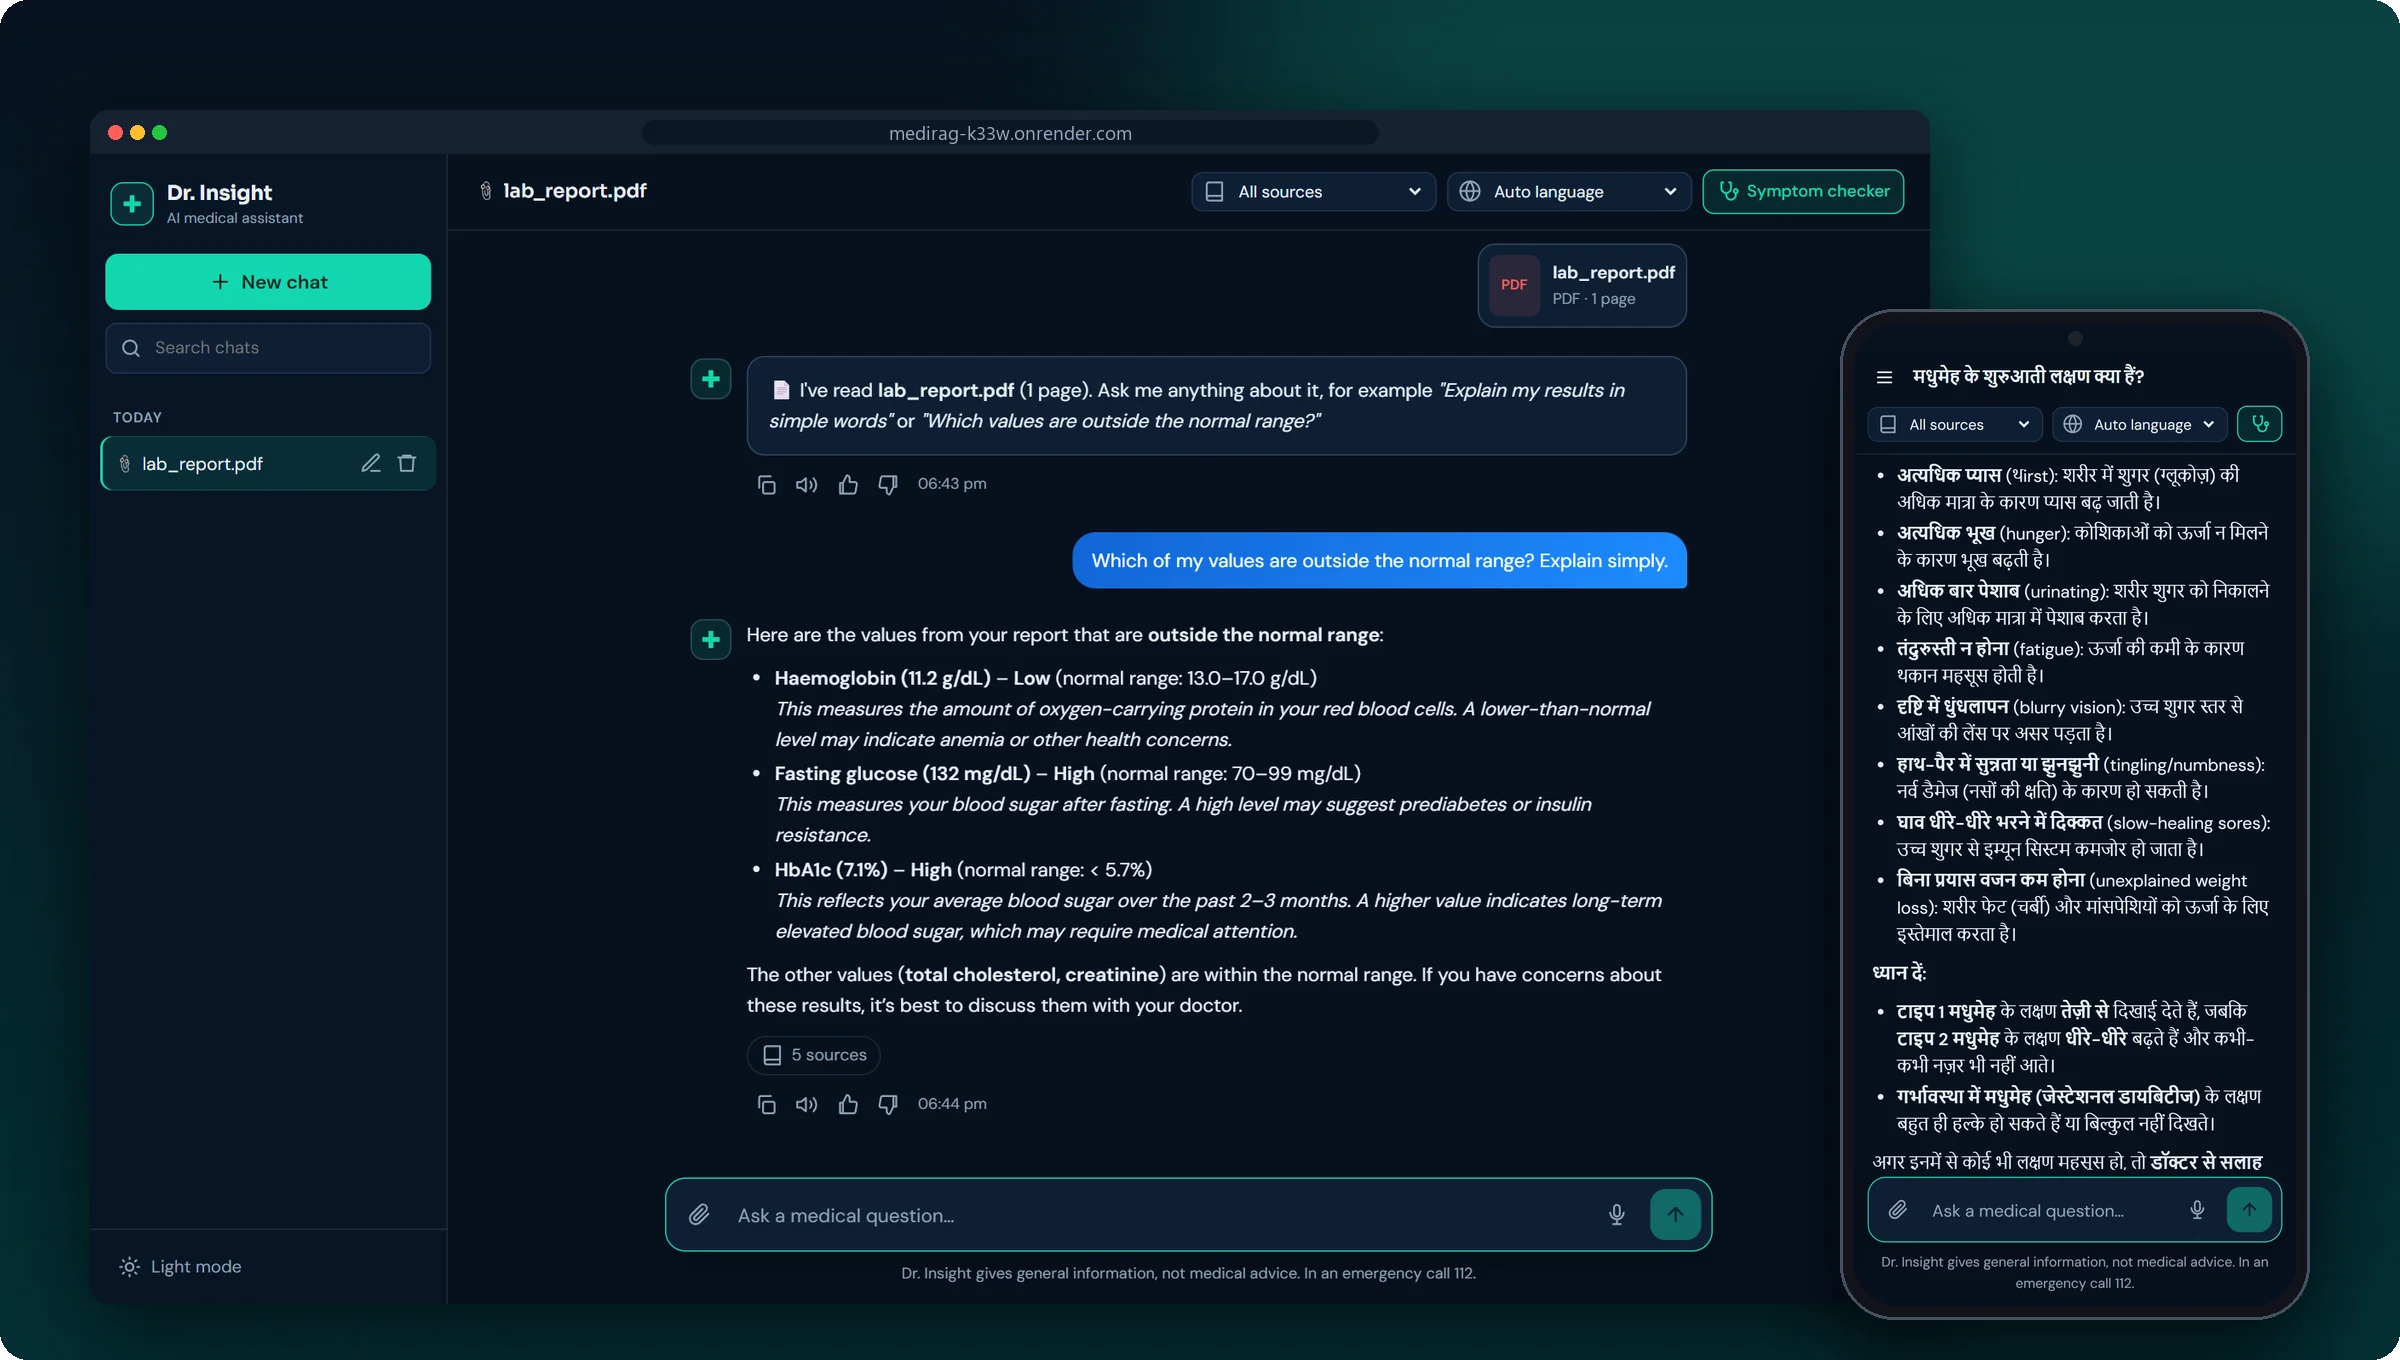
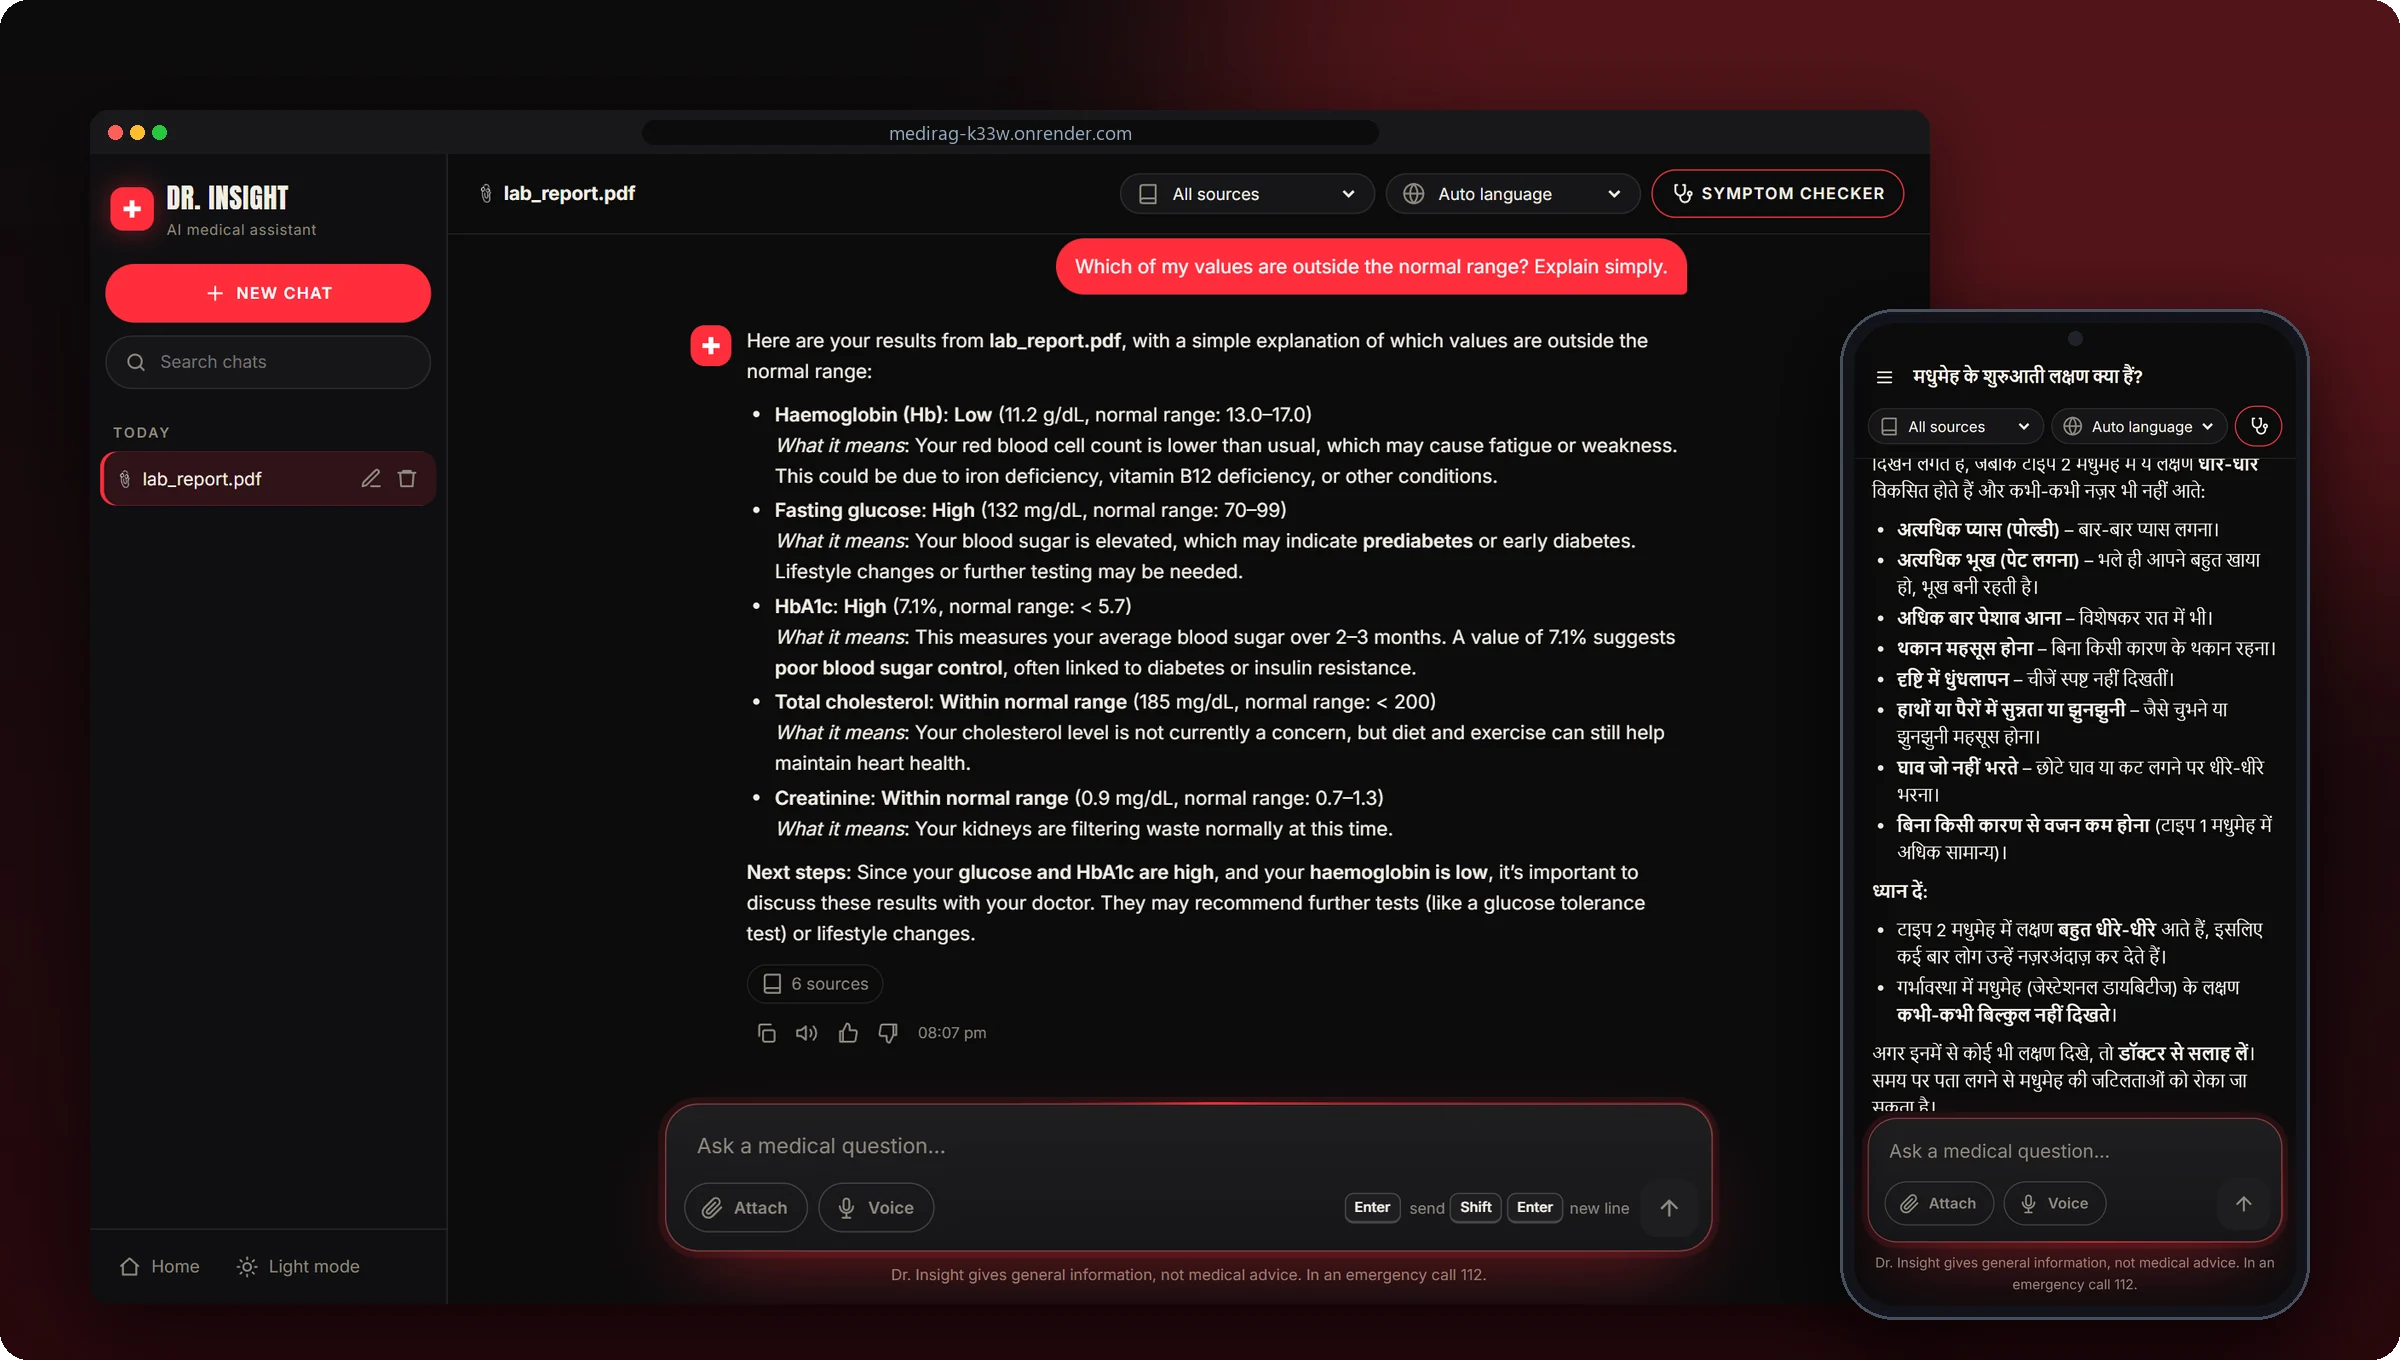
Refresh the README for the Ink & Crimson UI
- Retake every screenshot of the new landing page, dashboard and
  message box; rebuild the hero image on a black and crimson background
- Redraw the animated banner (beating cross, ECG line) and the
  vital-signs panel in the new palette
- Recolour the badges, button and diagram; add the landing page and the
  message box to the gallery
- Document the new routes (/ landing, /app chat) and the 103 tests

diff --git a/README.md b/README.md
@@ -4,13 +4,13 @@
 
 <br/>
 
-<a href="https://medirag-k33w.onrender.com"><img src="https://img.shields.io/badge/%E2%96%B6%20%20OPEN%20THE%20LIVE%20DEMO-14d6b0?style=for-the-badge&labelColor=062b30" alt="Open the live demo" height="40"/></a>
+<a href="https://medirag-k33w.onrender.com"><img src="https://img.shields.io/badge/%E2%96%B6%20%20OPEN%20THE%20LIVE%20DEMO-ff2d3b?style=for-the-badge&labelColor=0b0b0c" alt="Open the live demo" height="40"/></a>
 
 <sub>Free hosting: if nobody has visited for 15 minutes, the first load takes about a minute while it wakes up.</sub>
 
 <br/><br/>
 
-[![CI](https://github.com/himanshugithub360/MediRAG/actions/workflows/ci.yml/badge.svg)](https://github.com/himanshugithub360/MediRAG/actions/workflows/ci.yml) ![Python](https://img.shields.io/badge/python-3.12-0a1626?logo=python&logoColor=5eead4&labelColor=0a1626) ![Flask](https://img.shields.io/badge/flask-3-0a1626?logo=flask&logoColor=5eead4&labelColor=0a1626) ![LangChain](https://img.shields.io/badge/langchain-0.3-0a1626?logo=langchain&logoColor=5eead4&labelColor=0a1626) ![Pinecone](https://img.shields.io/badge/pinecone-vectors-0a1626?labelColor=0a1626) ![Mistral](https://img.shields.io/badge/mistral-LLM_%2B_vision-0a1626?labelColor=0a1626)
+[![CI](https://github.com/himanshugithub360/MediRAG/actions/workflows/ci.yml/badge.svg)](https://github.com/himanshugithub360/MediRAG/actions/workflows/ci.yml) ![Python](https://img.shields.io/badge/python-3.12-0b0b0c?logo=python&logoColor=f3eee4&labelColor=0b0b0c) ![Flask](https://img.shields.io/badge/flask-3-0b0b0c?logo=flask&logoColor=f3eee4&labelColor=0b0b0c) ![LangChain](https://img.shields.io/badge/langchain-0.3-0b0b0c?logo=langchain&logoColor=f3eee4&labelColor=0b0b0c) ![Pinecone](https://img.shields.io/badge/pinecone-vectors-0b0b0c?labelColor=0b0b0c) ![Mistral](https://img.shields.io/badge/mistral-LLM_%2B_vision-0b0b0c?labelColor=0b0b0c)
 
 </div>
 
@@ -25,7 +25,7 @@
 </p>
 
 <p align="center">
-  <img src="docs/assets/vitals.svg" alt="Vital signs: 13,828 passages, Hit@5 100% and MRR 0.87, 10 languages, 101 tests, ~240 MB, ₹0 hosting" width="100%"/>
+  <img src="docs/assets/vitals.svg" alt="Vital signs: 13,828 passages, Hit@5 100% and MRR 0.87, 10 languages, 103 tests, ~240 MB, ₹0 hosting" width="100%"/>
 </p>
 
 <div align="center">
@@ -55,6 +55,11 @@ General chatbots answer health questions **confidently but without sources**. Th
 
 ## 🔬 Examination
 
+<p align="center">
+  <img src="docs/assets/landing.webp" alt="The landing page: a beating red cross, an ECG line and the headline Trust the source" width="100%"/>
+  <br/><sub>🏠 The landing page: scroll-driven animation, a beating cross and a live ECG line</sub>
+</p>
+
 <table>
 <tr>
 <td width="50%"><img src="docs/assets/answer-sources.webp" alt="Answer about metformin side effects with its sources"/></td>
@@ -83,6 +88,11 @@ General chatbots answer health questions **confidently but without sources**. Th
 </table>
 
 <p align="center">
+  <img src="docs/assets/composer.webp" alt="The message box: a text area with Attach and Voice buttons, keyboard hints and a red send button" width="82%"/>
+  <br/><sub>⌨ The message box: attach a report, speak, or type. A red light travels around the edge while you write.</sub>
+</p>
+
+<p align="center">
   <img src="docs/assets/mobile-welcome.webp" alt="Mobile welcome screen" width="26%"/>&nbsp;&nbsp;
   <img src="docs/assets/mobile-hindi.webp" alt="Mobile Hindi answer" width="26%"/>&nbsp;&nbsp;
   <img src="docs/assets/mobile-sidebar.webp" alt="Mobile chat history" width="26%"/>
@@ -100,8 +110,8 @@ General chatbots answer health questions **confidently but without sources**. Th
 | **Safety** | Emergency, crisis and dosage rules (English, Hindi, Hinglish) · "won't guess" threshold · no doses, prescriptions or diagnoses · per-visitor rate limits, with emergencies never blocked |
 | **India** | 10 languages, detected automatically from the script · Indian helplines (112, 108, Tele-MANAS 14416) · symptom checker that favours common local causes |
 | **Your files** | Text and scanned PDFs, photos (Pixtral vision) · range checking done in code · image disclaimers · files deleted along with their chat |
-| **App** | Streaming · Markdown · SQLite history · search, rename, delete · 👍/👎 review page · copy · dark/light theme · mobile · voice in and out |
-| **Engineering** | 101 tests · GitHub Actions · Docker (full and lite) · waitress/gunicorn · free Render deploy · retrieval evaluation script · all settings in one file |
+| **App** | Animated landing page · Ink & Crimson theme · command-bar message box · Streaming · Markdown · SQLite history · search, rename, delete · 👍/👎 review page · copy · dark/light theme · mobile · voice in and out |
+| **Engineering** | 103 tests · GitHub Actions · Docker (full and lite) · waitress/gunicorn · free Render deploy · retrieval evaluation script · all settings in one file |
 
 </details>
 
@@ -110,7 +120,7 @@ General chatbots answer health questions **confidently but without sources**. Th
 ## 🧠 Diagnosis: how it works
 
 ```mermaid
-%%{init: {'theme':'base','themeVariables':{'primaryColor':'#0e1f35','primaryTextColor':'#e6f0f6','primaryBorderColor':'#14d6b0','lineColor':'#14d6b0','fontFamily':'Segoe UI, sans-serif'}}}%%
+%%{init: {'theme':'base','themeVariables':{'primaryColor':'#161618','primaryTextColor':'#f3eee4','primaryBorderColor':'#ff2d3b','lineColor':'#ff2d3b','fontFamily':'Segoe UI, sans-serif'}}}%%
 flowchart LR
     Q([🗣 Question<br/>any language]) --> S{🛡 Safety<br/>rules}
     S -- emergency · crisis · dosage --> R1([🚨 Instant reply<br/>112 · 108 · 14416])
@@ -123,8 +133,8 @@ flowchart LR
     C -- no --> R2([🙅 I'd rather<br/>not guess])
     C -- yes --> L[🤖 Mistral]
     L --> A([💬 Answer in your<br/>language + sources])
-    classDef alert fill:#3a1418,stroke:#ff6159,color:#ffd0cd
-    classDef good fill:#08322c,stroke:#14d6b0,color:#d5fff6
+    classDef alert fill:#4a0d12,stroke:#ff2d3b,color:#ffd9dc
+    classDef good fill:#f3eee4,stroke:#f3eee4,color:#0b0b0c
     class R1 alert
     class A good
 ```
@@ -195,7 +205,7 @@ python store_index.py
 python app.py
 ```
 
-→ **<http://localhost:8080>** opens by itself. For a production server, use `python serve.py`.
+→ **<http://localhost:8080>** opens by itself (the landing page; the chat is at **/app**). For a production server, use `python serve.py`.
 
 <details>
 <summary><b>Dosage notes</b>: browser choice, ports, lite mode, other PDFs, licences</summary>
@@ -235,7 +245,7 @@ Measured with `python eval_retrieval.py` on 16 test questions. It makes no LLM c
 
 ### Tests
 
-**101 tests, about 5 seconds, with no API keys or network** (the AI is faked in `tests/conftest.py`). [GitHub Actions](.github/workflows/ci.yml) runs them and builds both Docker images on every push.
+**103 tests, about 5 seconds, with no API keys or network** (the AI is faked in `tests/conftest.py`). [GitHub Actions](.github/workflows/ci.yml) runs them and builds both Docker images on every push.
 
 ```bash
 pip install -r requirements-dev.txt
@@ -246,7 +256,7 @@ python -m pytest -q
 
 | Suite | | Covers |
 |---|:-:|---|
-| `test_app.py` | 29 | `/chat`, streaming, greetings, follow-ups, Hindi, filters, safety paths, **error handling** (LLM down, 429 retry, rate limit, bad input), symptom checker, uploads, **lab range checks**, privacy, feedback, health |
+| `test_app.py` | 31 | `/chat`, streaming, greetings, follow-ups, Hindi, filters, safety paths, **error handling** (LLM down, 429 retry, rate limit, bad input), symptom checker, uploads, **lab range checks**, privacy, feedback, health |
 | `test_safety.py` | 58 | Emergencies, crises, dosage, notices, safe questions, Hindi and Hinglish |
 | `test_storage.py` · `test_retrieval_lite.py` · `test_languages.py` | 6 · 5 · 3 | Saved chats · hosted rerank and its fallback · script detection |
 
@@ -339,6 +349,7 @@ Then open <http://localhost:7860>. `GET /healthz` returns `ok` when it's ready; 
 | `GET` · `PATCH` · `DELETE /api/conversations[/<id>]` | List, read, rename, delete |
 | `POST /api/messages/<id>/feedback` | `{"value": 1 \| -1 \| null}` |
 | `GET /api/feedback/summary` | 👍/👎 totals + recent 👎 (localhost only) |
+| `GET /` · `GET /app` | The landing page · the chat app (old `/?c=<id>` links redirect to `/app`) |
 | `GET /healthz` | `ok` once the models are loaded |
 
 ```bash
@@ -393,9 +404,9 @@ MediRAG/
 │   ├── languages.py       # 10 languages
 │   ├── storage.py         # SQLite
 │   └── helper.py · launcher.py
-├── templates/chat.html    # the whole UI
+├── templates/             # landing.html (animated home page) · chat.html (the app)
 ├── static/ · docs/assets/ # icons, vendored JS · README images
-├── tests/                 # 101 tests
+├── tests/                 # 103 tests
 └── Dockerfile · Dockerfile.render · render.yaml · .github/workflows/ci.yml
 ```
 
@@ -427,7 +438,7 @@ MediRAG/
 
 <div align="center">
 
-<img src="https://img.shields.io/badge/attending_physician-Himanshu_Kumar-14d6b0?style=flat-square&labelColor=0a1626" alt="Attending physician: Himanshu Kumar"/>
+<img src="https://img.shields.io/badge/attending_physician-Himanshu_Kumar-ff2d3b?style=flat-square&labelColor=0b0b0c" alt="Attending physician: Himanshu Kumar"/>
 
 **[github.com/himanshugithub360](https://github.com/himanshugithub360)**
 
